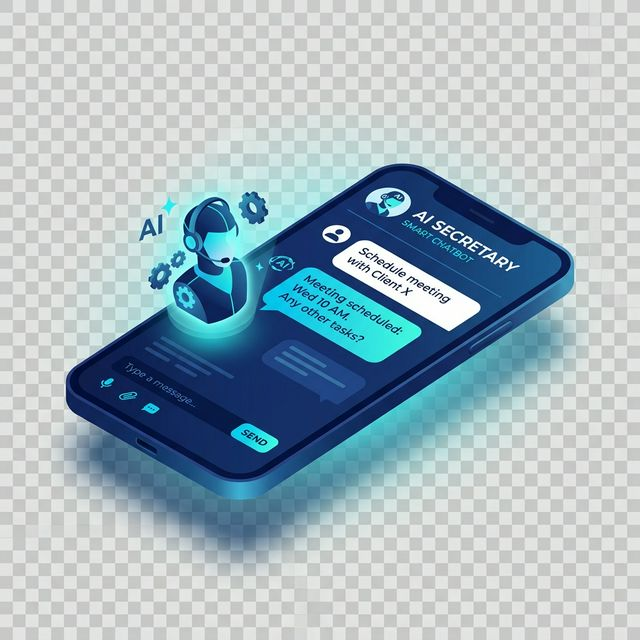
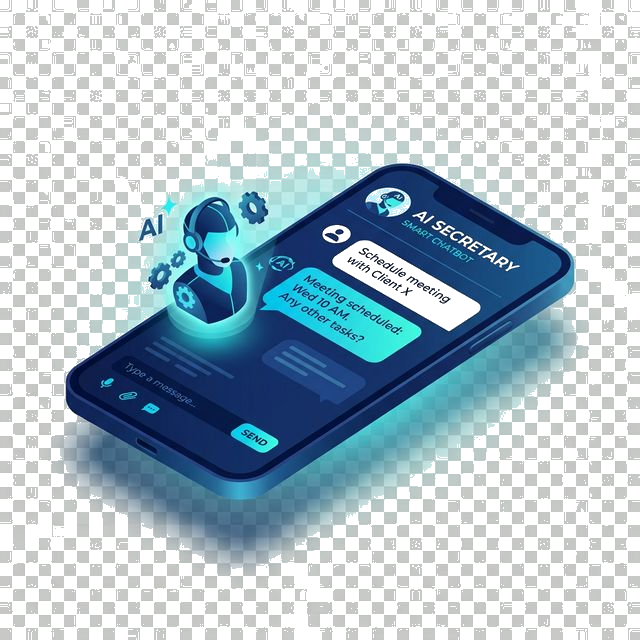
Fix: eliminar fondo blanco del icono Secretaria IA

diff --git a/index.html b/index.html
@@ -156,7 +156,7 @@
         <div class="service-card reveal tilt-card">
           <div class="card-glow"></div>
           <div class="service-icon">
-            <img src="assets/images/virtual_secretary_icon.png" alt="Secretaria IA en WhatsApp" style="mix-blend-mode: screen;">
+            <img src="assets/images/virtual_secretary_icon.png" alt="Secretaria IA en WhatsApp">
           </div>
           <h3>Secretaria IA en WhatsApp</h3>
           <p>Implementamos agentes de inteligencia artificial como secretarias virtuales que atienden tu WhatsApp 24/7. Resuelven dudas de clientes, filtran oportunidades y agendan reuniones con tomadores de decisión reales en piloto automático.</p>
